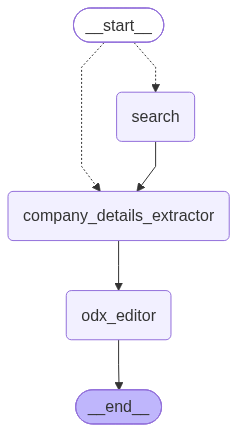
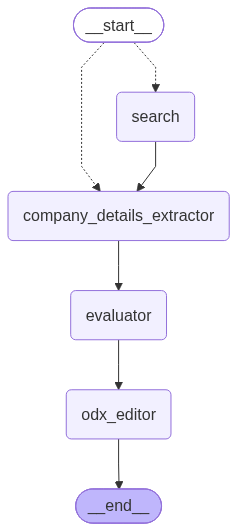
feature() add the resume analyzer with company requirment

diff --git a/graph/resume_builder.py b/graph/resume_builder.py
@@ -1,1 +1,45 @@
-def 
+from config import get_llm
+from docx import Document
+from .starting import State
+from pydantic import BaseModel, Field
+from langchain.messages import AIMessage, HumanMessage, SystemMessage
+
+
+
+
+llm = get_llm()
+
+class taloried_recommendations(BaseModel):
+    skills: str = Field(description="find the best skills matching the between my resume details and  requirements of the company and place top to bottom on the basis skills mentioned in requirement")
+    project: str = Field(description="find the best projects matching the between my resume details requirements of the company and place top to bottom on the basis projects mentioned in requirement")
+    all_gaps: str = Field(description="find the gaps in skills and projects and experience from the company requirements ")
+
+def resume_evaluator(state:State):
+    doc = Document("Priyanshu_Harsana_Resume.docx")
+
+    full_text = []
+    for para in doc.paragraphs:
+        full_text.append(para.text)
+
+    text = "\n".join(full_text)
+    print(text)
+    system=SystemMessage(content=
+        "You are a resume-building specialist.\n"
+        "1. Analyze the job requirements provided.\n"
+        "2. Compare them against the candidate's resume.\n"
+        "3. List matching skills and projects.\n"
+        "4. List missing or weak skills/projects the candidate should improve or add."
+    )
+    human= HumanMessage(
+        content=f"""
+        resume details: {text}/n
+        job requirements
+        company_name:{state["company_name"]},
+        requirement_title:    {state["requirement_title"]},
+            {state["requirement_skill"]},
+            {state["requirement_responsibilities"]}
+            """
+    )
+    llm_structure = llm.with_structured_output(taloried_recommendations)
+    response = llm_structure.invoke([system,human])
+    return response

diff --git a/graph/graph.py b/graph/graph.py
@@ -2,6 +2,10 @@ from .starting import route_start, search_url, company_details_extractor, odx_ed
 from langgraph.graph import StateGraph, START, END
 from langgraph.checkpoint.memory import InMemorySaver
 from uuid import uuid4
+from .resume_builder import resume_evaluator
+
+
+
 def graph_main():
     #initalize the stategraph of langgraph
     graph_builder = StateGraph(State)
@@ -11,6 +15,7 @@ def graph_main():
     graph_builder.add_node("search",search_url)
     graph_builder.add_node("company_details_extractor",company_details_extractor)
     graph_builder.add_node("odx_editor",odx_editor)
+    graph_builder.add_node("evaluator",resume_evaluator)
 
     #conditional 
     graph_builder.add_conditional_edges(
@@ -23,7 +28,8 @@ def graph_main():
     )
 
     graph_builder.add_edge("search", "company_details_extractor")
-    graph_builder.add_edge("company_details_extractor", "odx_editor")
+    graph_builder.add_edge("company_details_extractor", "evaluator")
+    graph_builder.add_edge("evaluator","odx_editor")
     graph_builder.add_edge("odx_editor",END)
 
     checkpointer=InMemorySaver()

diff --git a/graph/starting.py b/graph/starting.py
@@ -27,6 +27,10 @@ class State(TypedDict):
     requirement_responsibilities:str
     my_resume_rank_against_it :str
     my_shortcoming :str
+    skills: str
+    project: str 
+    all_gaps: str
+    
 
 
 class companydetails(BaseModel):
@@ -59,7 +63,8 @@ def odx_editor(state:State):
     df=pd.DataFrame([state])
     print(df)
     write_header = not os.path.exists("details.csv")
-    df.to_csv("details.csv", mode="a",header=write_header,index=False) 
+    df.to_csv("details.csv", mode="a",header=write_header,index=False)
+    return state
 
 def search_url(state:State):
     """Fetch the raw page content from the job posting link."""
@@ -78,8 +83,7 @@ def company_details_extractor(state:State)-> dict:
     ]
 
     llm_structure=llm.with_structured_output(companydetails)
-    response=llm_structure.invoke(messages)
-    print(response)  
+    response=llm_structure.invoke(messages)  
     return response
 
 

diff --git a/config.py b/config.py
@@ -4,12 +4,16 @@ from dotenv import load_dotenv
 import os
 
 load_dotenv()
+_llm_instance = None
 
 def get_llm():
-    return init_chat_model(
-        model=os.getenv("LLM_MODEL", "Qwen/Qwen3-4B"),
-        openai_api_base=os.getenv("VLLM_BASE_URL", "http://localhost:8005/v1"),
-        openai_api_key=os.getenv("VLLM_API_KEY"),
-        model_provider="openai",
-        temperature=0.0,
-    )
+    global _llm_instance
+    if _llm_instance is None:
+        _llm_instance = init_chat_model(
+            model=os.getenv("LLM_MODEL", "Qwen/Qwen3-4B"),
+            base_url=os.getenv("VLLM_BASE_URL", "http://localhost:8005/v1"),
+            api_key=os.getenv("VLLM_API_KEY", "dummy-key"),
+            model_provider="openai",
+            temperature=0.0,
+        )
+    return _llm_instance

diff --git a/graph/test.py b/graph/test.py
@@ -1,0 +1,18 @@
+from .starting import State  # or .starting if run as -m module
+from .resume_builder import resume_evaluator  # adjust to actual filename
+
+fake_state: State = {
+    "user_input": "",
+    "link": "",
+    "page_content": "",
+    "company_name": "Acme Corp",
+    "requirement_title": "Backend Engineer",
+    "requirement_skill": "Python, FastAPI, PostgreSQL",
+    "requirement_responsibilities": "Build and maintain REST APIs, optimize database queries",
+    "my_resume_rank_against_it": "",
+    "my_shortcoming": "",
+}
+
+result = resume_evaluator(fake_state)
+print("RESULT:")
+print(result)
